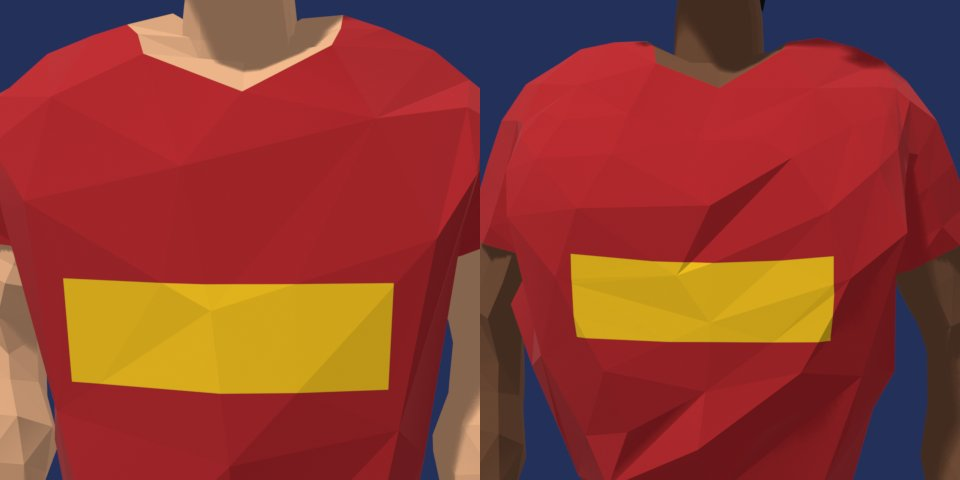
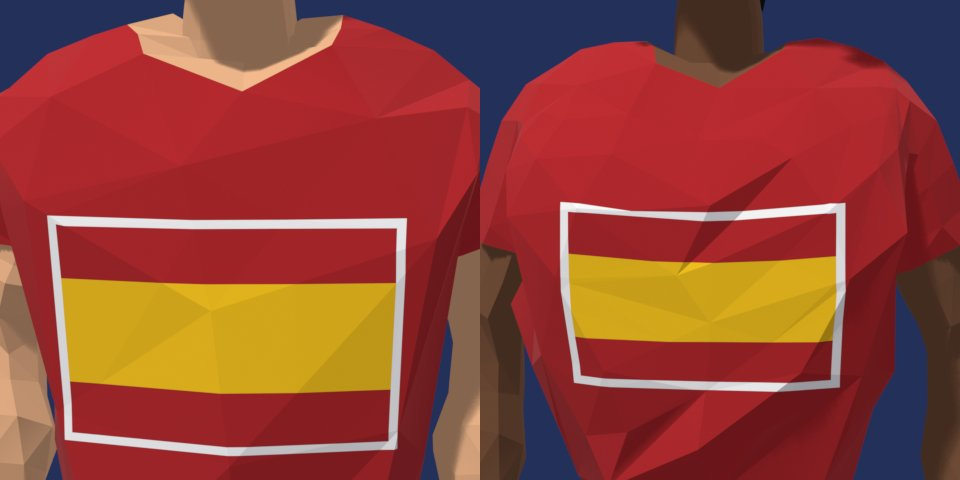
Wardrobe Packs: Spain's flag top border and the Classroom flags section

Changed region(s): [[0.0312, 0.4375, 0.4375, 0.9688], [0.5625, 0.4062, 0.9062, 0.8438]]

diff --git a/wardrobe-packs/index.html b/wardrobe-packs/index.html
@@ -163,7 +163,7 @@ ol.next { padding-left: 22px; }
   <a class="back" href="../">← All reports</a>
   <span class="eyebrow">M137 · Richer packs · art for review, not in the game yet</span>
   <h1>Wardrobe Packs</h1>
-  <p class="lede">What each pack contains, on the proctor's man and woman: the Supporter Pack's gold set beside the tweed jacket, the Style Pack as one outfit, and for each country a flag badge and a flag outfit.</p>
+  <p class="lede">What each pack contains, on the proctor's man and woman: the Supporter Pack's gold set beside the tweed jacket, the Style Pack as one outfit, and for each country a flag badge, a flag outfit and a classroom wall flag.</p>
   <p class="muted">The finished items are spliced into the committed <code>proctor_wardrobe.glb</code>: all 69 existing meshes are byte-for-byte unchanged, and every check passes on both bodies in all three builds. Wardrobe report: <a href="../wardrobe/">Wardrobe</a>; pipeline: <a href="../proctor-character/">Proctor Character</a>.</p>
 </header>
 
@@ -266,9 +266,9 @@ ol.next { padding-left: 22px; }
   <h3>Spain</h3>
   <figure><a href="img/country_es_front.jpg"><img src="img/country_es_front.jpg" alt="Spain outfit on the man and the woman, front" loading="lazy"></a></figure>
   <div class="shots"><figure><a href="img/country_es_back.jpg"><img src="img/country_es_back.jpg" alt="Spain outfit, three-quarter back" loading="lazy"></a></figure><figure><a href="img/country_es_close.jpg"><img src="img/country_es_close.jpg" alt="Spain flag top close up, man and woman" loading="lazy"></a></figure></div>
-  <p>Red with the yellow band; charcoal trousers, red sneakers with yellow.</p>
+  <p>Red with the red-yellow-red flag inside an off-white border, so its red stripes read against the red shirt; charcoal trousers, red sneakers with yellow.</p>
   <ul>
-    <li><b><code>top_es_flag</code></b> <span class="cols"><span><i class="sw" style="background:#AA151B"></i>#AA151B</span><span><i class="sw" style="background:#F1BF00"></i>#F1BF00</span><span><i class="sw" style="background:#F1BF00"></i>#F1BF00</span></span> <code>ward_top_flag_es_m/_f</code>, 488 / 591 triangles</li>
+    <li><b><code>top_es_flag</code></b> <span class="cols"><span><i class="sw" style="background:#AA151B"></i>#AA151B</span><span><i class="sw" style="background:#F1BF00"></i>#F1BF00</span><span><i class="sw" style="background:#F5F5F2"></i>#F5F5F2</span></span> <code>ward_top_flag_es_m/_f</code>, 562 / 701 triangles</li>
     <li><b><code>trousers_es_flag</code></b> <span class="cols"><span><i class="sw" style="background:#2B2D33"></i>#2B2D33</span></span> the straight cut, tinted</li>
     <li><b><code>shoes_es_flag</code></b> <span class="cols"><span><i class="sw" style="background:#AA151B"></i>#AA151B</span><span><i class="sw" style="background:#F1BF00"></i>#F1BF00</span></span> the sneaker, recoloured</li>
   </ul>
@@ -309,6 +309,15 @@ ol.next { padding-left: 22px; }
 </figure></div>
 </section>
 
+<section id="classroom-flags">
+  <div class="section-head"><span class="eyebrow">Country packs · the room</span><h2>Classroom flags</h2>
+  <p class="muted">The eight flags for the 3D classroom (<code>room_flag_&lt;cc&gt;</code>): one wall-flag mesh, 84 triangles, and a texture per country. It hangs flat from a short wood rod with brass finials, like a classroom banner, in the room's box-built, flat-shaded style; the cloth's X scale gives each flag its own ratio (UK 1:2, US 10:19, Brazil 7:10, the rest 2:3).</p></div>
+  <figure><a href="img/room_flags_lineup.jpg"><img src="img/room_flags_lineup.jpg" alt="The eight classroom flags on a strip of wall" loading="lazy"></a><figcaption>All eight, straight on</figcaption></figure>
+  <div class="pair"><figure><a href="img/room_flags_room.jpg"><img src="img/room_flags_room.jpg" alt="The default classroom from the game camera, the flag on the back wall" loading="lazy"></a><figcaption>In the default classroom, from the game camera (target (-1, 0.35, 6.2), pitch 50, distance 15, fov 42): top left of the back wall</figcaption></figure><figure><a href="img/room_flags_zoom.jpg"><img src="img/room_flags_zoom.jpg" alt="The same camera zoomed on the back wall: flag, door, notice board, clock" loading="lazy"></a><figcaption>Zoomed: clear of the door, the notice board and the clock</figcaption></figure></div>
+  <div class="note"><b>Suggested placement.</b>
+    <p>The back wall: seen from the front camera, everything on it is behind every student, so the flag never hides one. In the default spot it is centred at x = cx &minus; 1.88 between the door frame and the notice board (12 cm and 10 cm clear in the narrowest room), with the rod top at 2.70 m, above the door and level with the board's top. That holds for the high-school, middle-school, evening, office and lecture rooms. Bright Primary: same x, rod top 2.25 m, under the alphabet frieze. Panelled: x = cx + 1.85 at scale 0.9, between the board and the clock, because the crest is on the left. Exam Hall: x = cx &minus; 2.2, rod top 3.40 m, left of the basketball board. It never goes over the clock, the board, a window, the door or the door's swing. Spain is the civil flag (no arms), and Brazil keeps the badges' simplification (no white band or stars).</p></div>
+</section>
+
 <section id="checks">
   <div class="section-head"><h2>Checks and what Unity needs</h2></div>
   <div class="table-wrap"><table><thead><tr><th>Check</th><th>New parts</th><th>Result</th></tr></thead><tbody>
@@ -326,6 +335,7 @@ ol.next { padding-left: 22px; }
     <li><b>Glint.</b> <code>badge_supporter</code> has <code>"glint": "once"</code>: one highlight sweep the first time it is shown.</li>
     <li><b>Badge mesh.</b> <code>badge_supporter</code> now uses <code>Badge_Supporter</code>; flags use <code>Badge_Flag_&lt;cc&gt;</code>. All are in <code>proctor_wardrobe.glb</code>, the badge library the figure uses. <code>Wardrobe3Tests</code> still looks badge meshes up in the old <code>wardrobe.glb</code> and needs pointing at <code>proctor_wardrobe.glb</code>.</li>
     <li><b>Badge offsets.</b> No per-badge offsets: every badge uses the shared badge poses. New per-top overrides in <code>badge_rule</code>, so the shield (and every other badge) clears the fabric in all builds: man's issued tee side 0.100 (was 0.075); man's blazer below 0.070, side 0.095 (was 0.055, 0.085); woman's cardigan and sweater below 0.045, side 0.120 (was 0.040, 0.115). Each moved only outward or down, away from openings and lapels. Rebuild the supervisor prefab so the baked poses pick them up.</li>
+    <li><b>Classroom flags.</b> <code>Assets/Art/Classroom/Flags/</code>: <code>room_flag.glb</code>, <code>room_flag_&lt;cc&gt;.png</code>, <code>room_flags.json</code> (texture and cloth X scale per flag). Placement rules are in <code>ArtSource/Classroom/README.md</code>; nothing is placed in the room yet.</li>
     <li><b>Colours.</b> Add the triples above to <code>CosmeticAppearance.ColoursOf</code>; trousers_slate and each <code>trousers_&lt;cc&gt;_flag</code> are Legwear colours. FR's shell is its Trim (white); every other flag top's shell is Main.</li>
   </ol>
 </section>
